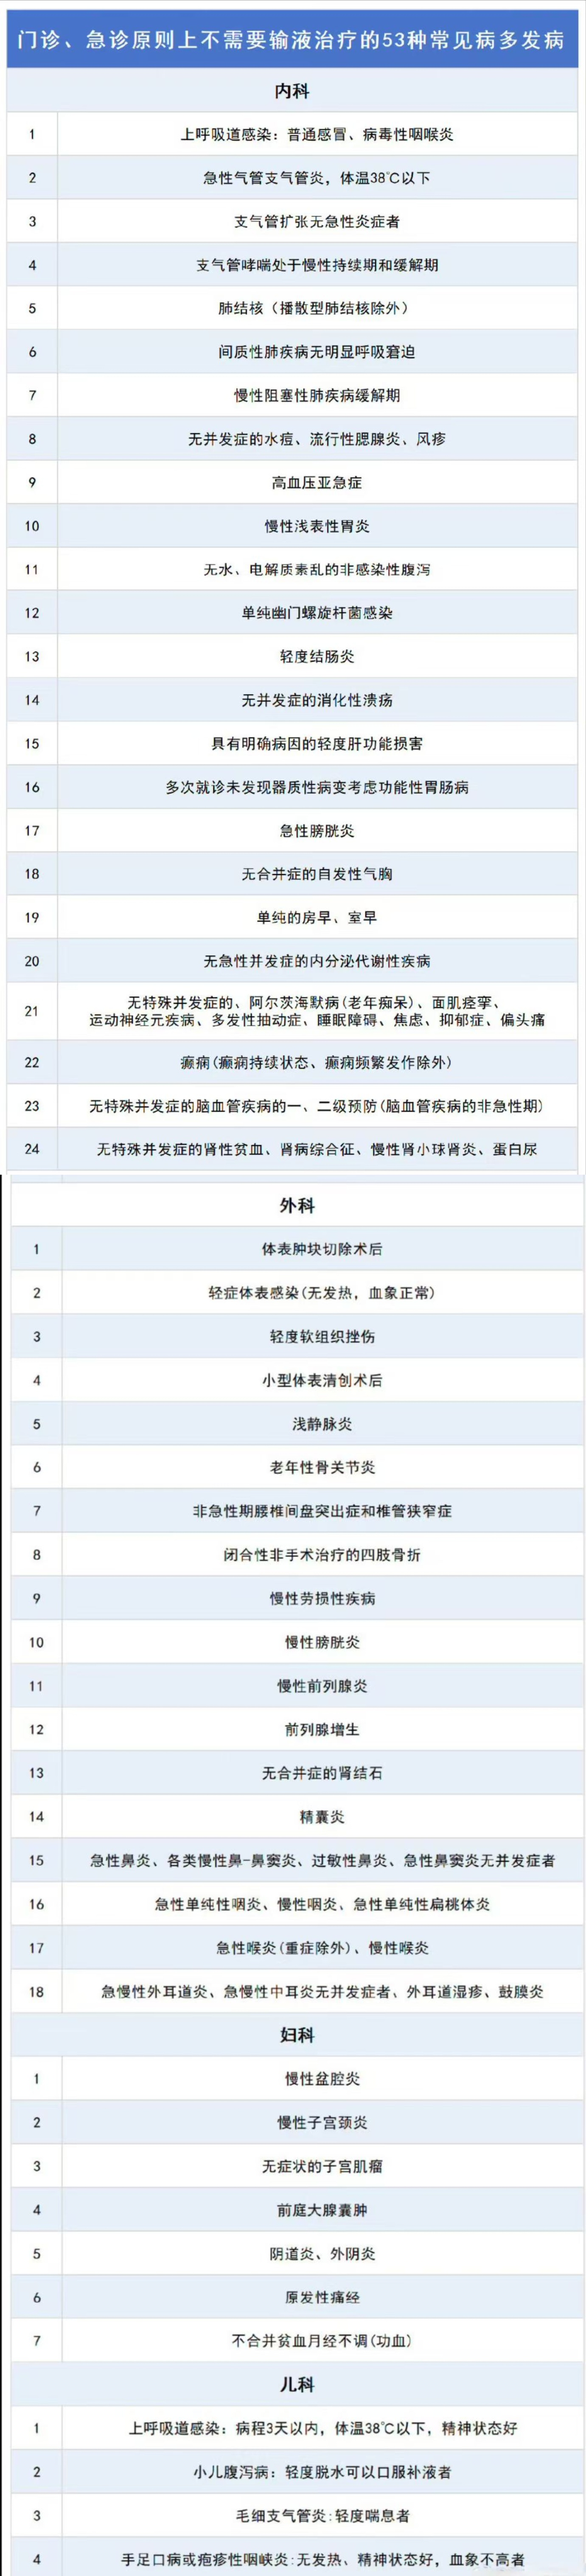
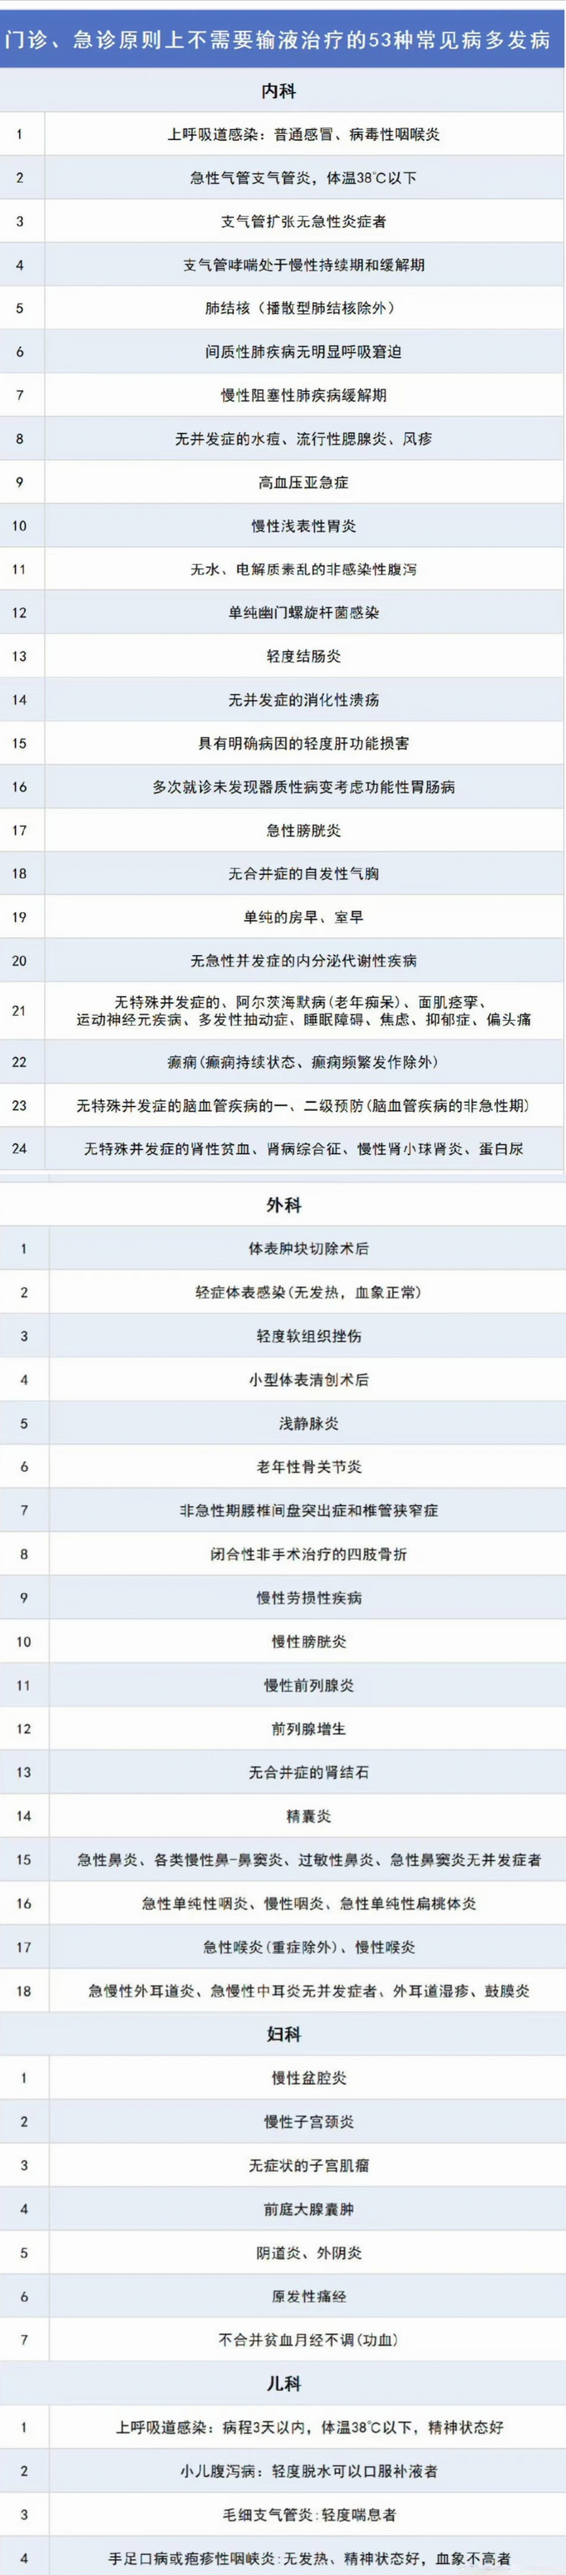
update

diff --git a/README.md b/README.md
@@ -276,6 +276,16 @@
 
 #### 4.4.2 [术后剪线和拆线](/手术-术后-剪线与拆线.md)
 
+#### 4.4.3 允许注射的情况
+
+患者只有在以下这3种情况下，才使用静脉输液：
+
+1. 出现吞咽困难；
+2. 严重吸收障碍（如呕吐、严重腹泻等）；
+3. 出现病情危重，发展迅速，药物在组织中宜达到高浓度才能紧急处理。
+
+[门诊急诊不允许注射治疗的 53 种情况](/健康医学常识/科普-急诊-不需要注射的53种常见病.jpg)
+
 ### 4.5 医疗保障
 
 1. [家庭医疗保障](/常识-基本医疗保险选择.md)
